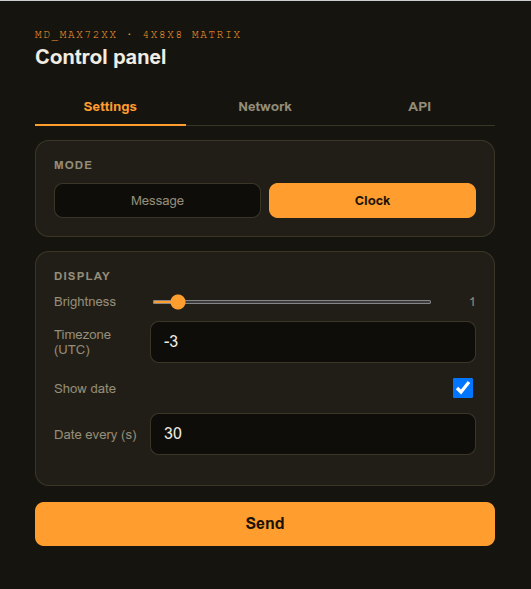
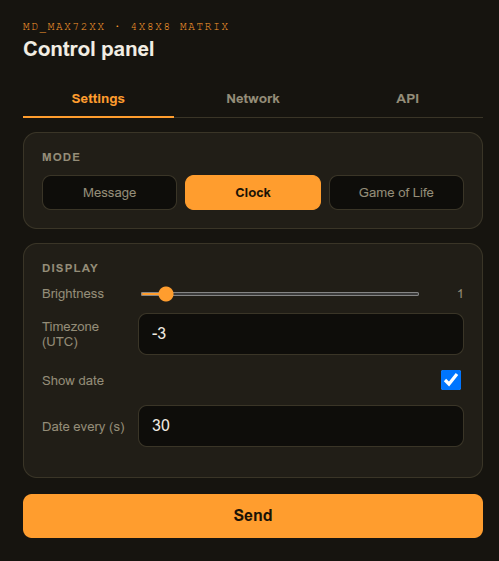
Add Game of Life mode and update documentation

diff --git a/docs/rest-api.md b/docs/rest-api.md
@@ -39,7 +39,7 @@ An unauthorized request returns HTTP 200 with:
 | `brt` | integer | 0 – 15 | Display brightness. 0 = minimum, 15 = maximum. Saved to NVS (unless sent with `alert`). |
 | `mode` | integer | `0` / `1` / `2` | Message sub-mode: `0` = scroll, `1` = static with blink, `2` = blink+scroll. Saved to NVS (unless sent with `alert`). |
 | `alert` | integer | 1 – 3600 | Show `msg` for N seconds, then automatically restore the previous state (mode, message, brightness, speed). Requires `msg`. Settings sent along with `alert` are also temporary. |
-| `display` | string | `clock` / `message` | Switches the top-level display mode. `message` shows the current message; `clock` shows the NTP clock. Saved to NVS. |
+| `display` | string | `clock` / `life` (or `gol`) / `message` | Switches the top-level display mode. `message` shows the current message; `clock` shows the NTP clock; `life`/`gol` shows an evolving Conway's Game of Life board. Saved to NVS. |
 | `tz` | integer | -720 – 840 | Timezone as a UTC offset in **minutes** (e.g. `-180` for UTC-3, `60` for UTC+1, `330` for UTC+5:30). Saved to NVS. |
 | `date` | integer | `0` / `1` | Clock mode only. `1` = periodically show the date (`DD/MM`) for a few seconds. Saved to NVS. |
 | `dateint` | integer | 5 – 3600 | Clock mode only. How often (in seconds) to show the date. Requires `date=1`. Saved to NVS. |
@@ -186,6 +186,15 @@ curl -H "X-API-Key: <key>" \
   "http://192.168.1.50/api/display?display=clock&tz=-180&date=1&dateint=60"
 ```
 
+### Switch to Game of Life mode
+
+```bash
+curl -H "X-API-Key: <key>" \
+  "http://192.168.1.50/api/display?display=life"
+```
+
+`display=gol` is accepted as an alias for `display=life`. The board is reseeded with a fresh random pattern every time Life mode is entered, and automatically reseeds itself when it becomes stuck (a still life or a short-period oscillator).
+
 ### Switch back to message mode
 
 ```bash
@@ -219,7 +228,7 @@ curl -g -H "X-API-Key: <key>" \
 ## Behaviour notes
 
 - **Persistence**: `spd`, `brt`, `mode`, `display`, `tz`, `date`, and `dateint` are saved to NVS and survive reboots, **except** when sent as part of an `alert` request (those are temporary).
-- **`msg` auto-switches mode**: sending `msg` without `display=clock` always switches the device to Message mode. You do not need to send `display=message` explicitly.
+- **`msg` auto-switches mode**: sending `msg` without an explicit `display=` always switches the device to Message mode. You do not need to send `display=message` explicitly.
 - **Clock requires NTP**: the NTP client only runs in station mode (not in the setup AP). Until the first NTP sync, the clock shows `--:--`.
 - **Timezone granularity**: `tz` accepts any integer in minutes, so half-hour offsets such as UTC+5:30 (`tz=330`) and UTC+9:30 (`tz=570`) are fully supported.
 - **No rate limit**: requests are handled cooperatively from `loop()`; sending many requests in rapid succession may cause brief display glitches.

diff --git a/README.md b/README.md
@@ -3,17 +3,21 @@
 Firmware for ESP32 that controls an LED matrix (MAX7219/MAX72XX, via
 [MD_MAX72XX](https://github.com/MajicDesigns/MD_MAX72XX)) and turns it into a
 WiFi-connected scrolling display, controllable via a web interface and a simple
-REST API. Works as a message board or as an NTP clock.
+REST API. Works as a message board, an NTP clock, or a Conway's Game of Life
+display.
 
 ## Features
 
-- **Two modes**: **Message** (scrolling/blinking text) or **Clock** (NTP),
-  selectable in the web interface.
+- **Three modes**: **Message** (scrolling/blinking text), **Clock** (NTP), or
+  **Game of Life**, selectable in the web interface.
 - **Clock mode (NTP)**: time in `HH:MM` with a blinking colon and small
   seconds digits, plus an optional date display (`DD/MM`) shown for a few
   seconds at a configurable interval. Timezone (UTC offset, half-hour
   steps supported), date on/off and interval are all configurable in the
   web interface — no reboot needed.
+- **Game of Life mode**: Conway's Game of Life evolving on the full matrix
+  (wrap-around board), automatically reseeding with a fresh random pattern
+  whenever it settles into a still life or a short repeating cycle.
 - **Web interface** to type and send scrolling messages to the display;
   the message box comes prefilled with the last message sent.
 - **REST API** (`GET /api/display?msg=...`) to send messages and control the display programmatically — see the [API reference](docs/api.md).
@@ -85,6 +89,12 @@ with its interval in seconds. Changes apply without rebooting.
 
 ![Web interface - Clock mode](assets/screenshot_1.png)
 
+### Game of Life mode
+
+Switch the mode to **Game of Life** to let Conway's Game of Life run on the
+matrix. No settings to configure — the board seeds itself with a random
+pattern on entry and reseeds automatically whenever it stalls.
+
 ### Network and API tabs
 
 - **Network**: shows the current connection (SSID, IP, signal) and lets you
@@ -102,7 +112,7 @@ curl "http://192.168.1.50/api/display?msg=Hello%20World"
 ```
 
 Available parameters: `msg`, `spd`, `brt`, `mode` (scroll / blink /
-blink+scroll), `alert`, `display` (message / clock), `tz`, `date`,
+blink+scroll), `alert`, `display` (message / clock / life), `tz`, `date`,
 `dateint`. Authentication via the `X-API-Key` header is optional and
 managed in the web interface.
 
@@ -124,6 +134,7 @@ settings (WiFi, brightness, speed, API key) and return to factory defaults.
 ## Roadmap
 
 - [x] Clock mode (NTP)
+- [x] Game of Life mode
 - [ ] Additional widgets/display modes
 
 ## License
